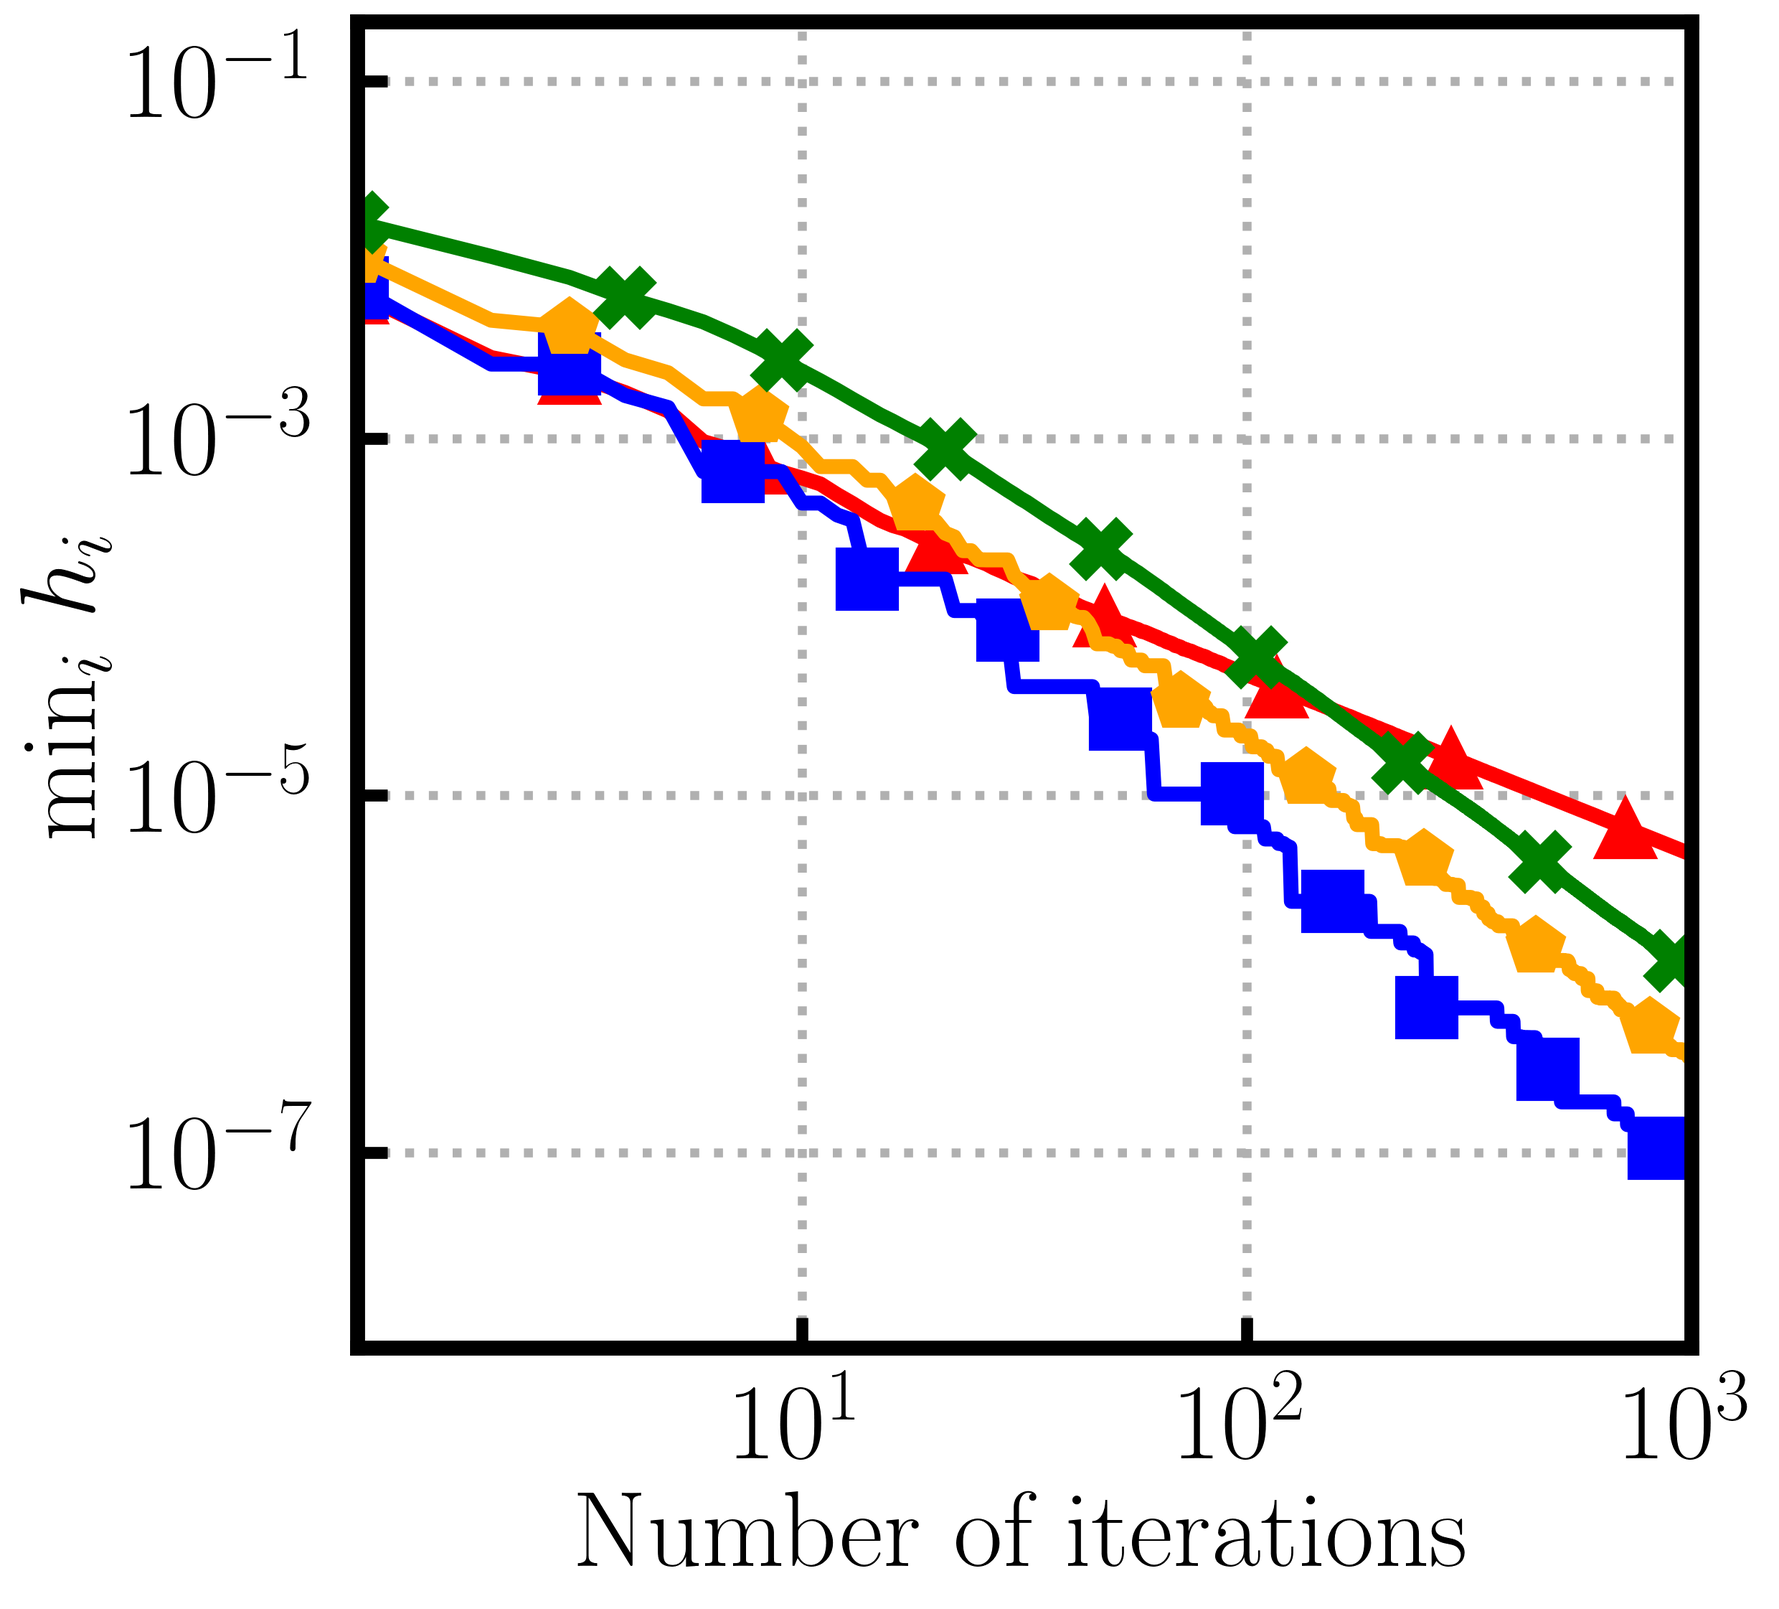
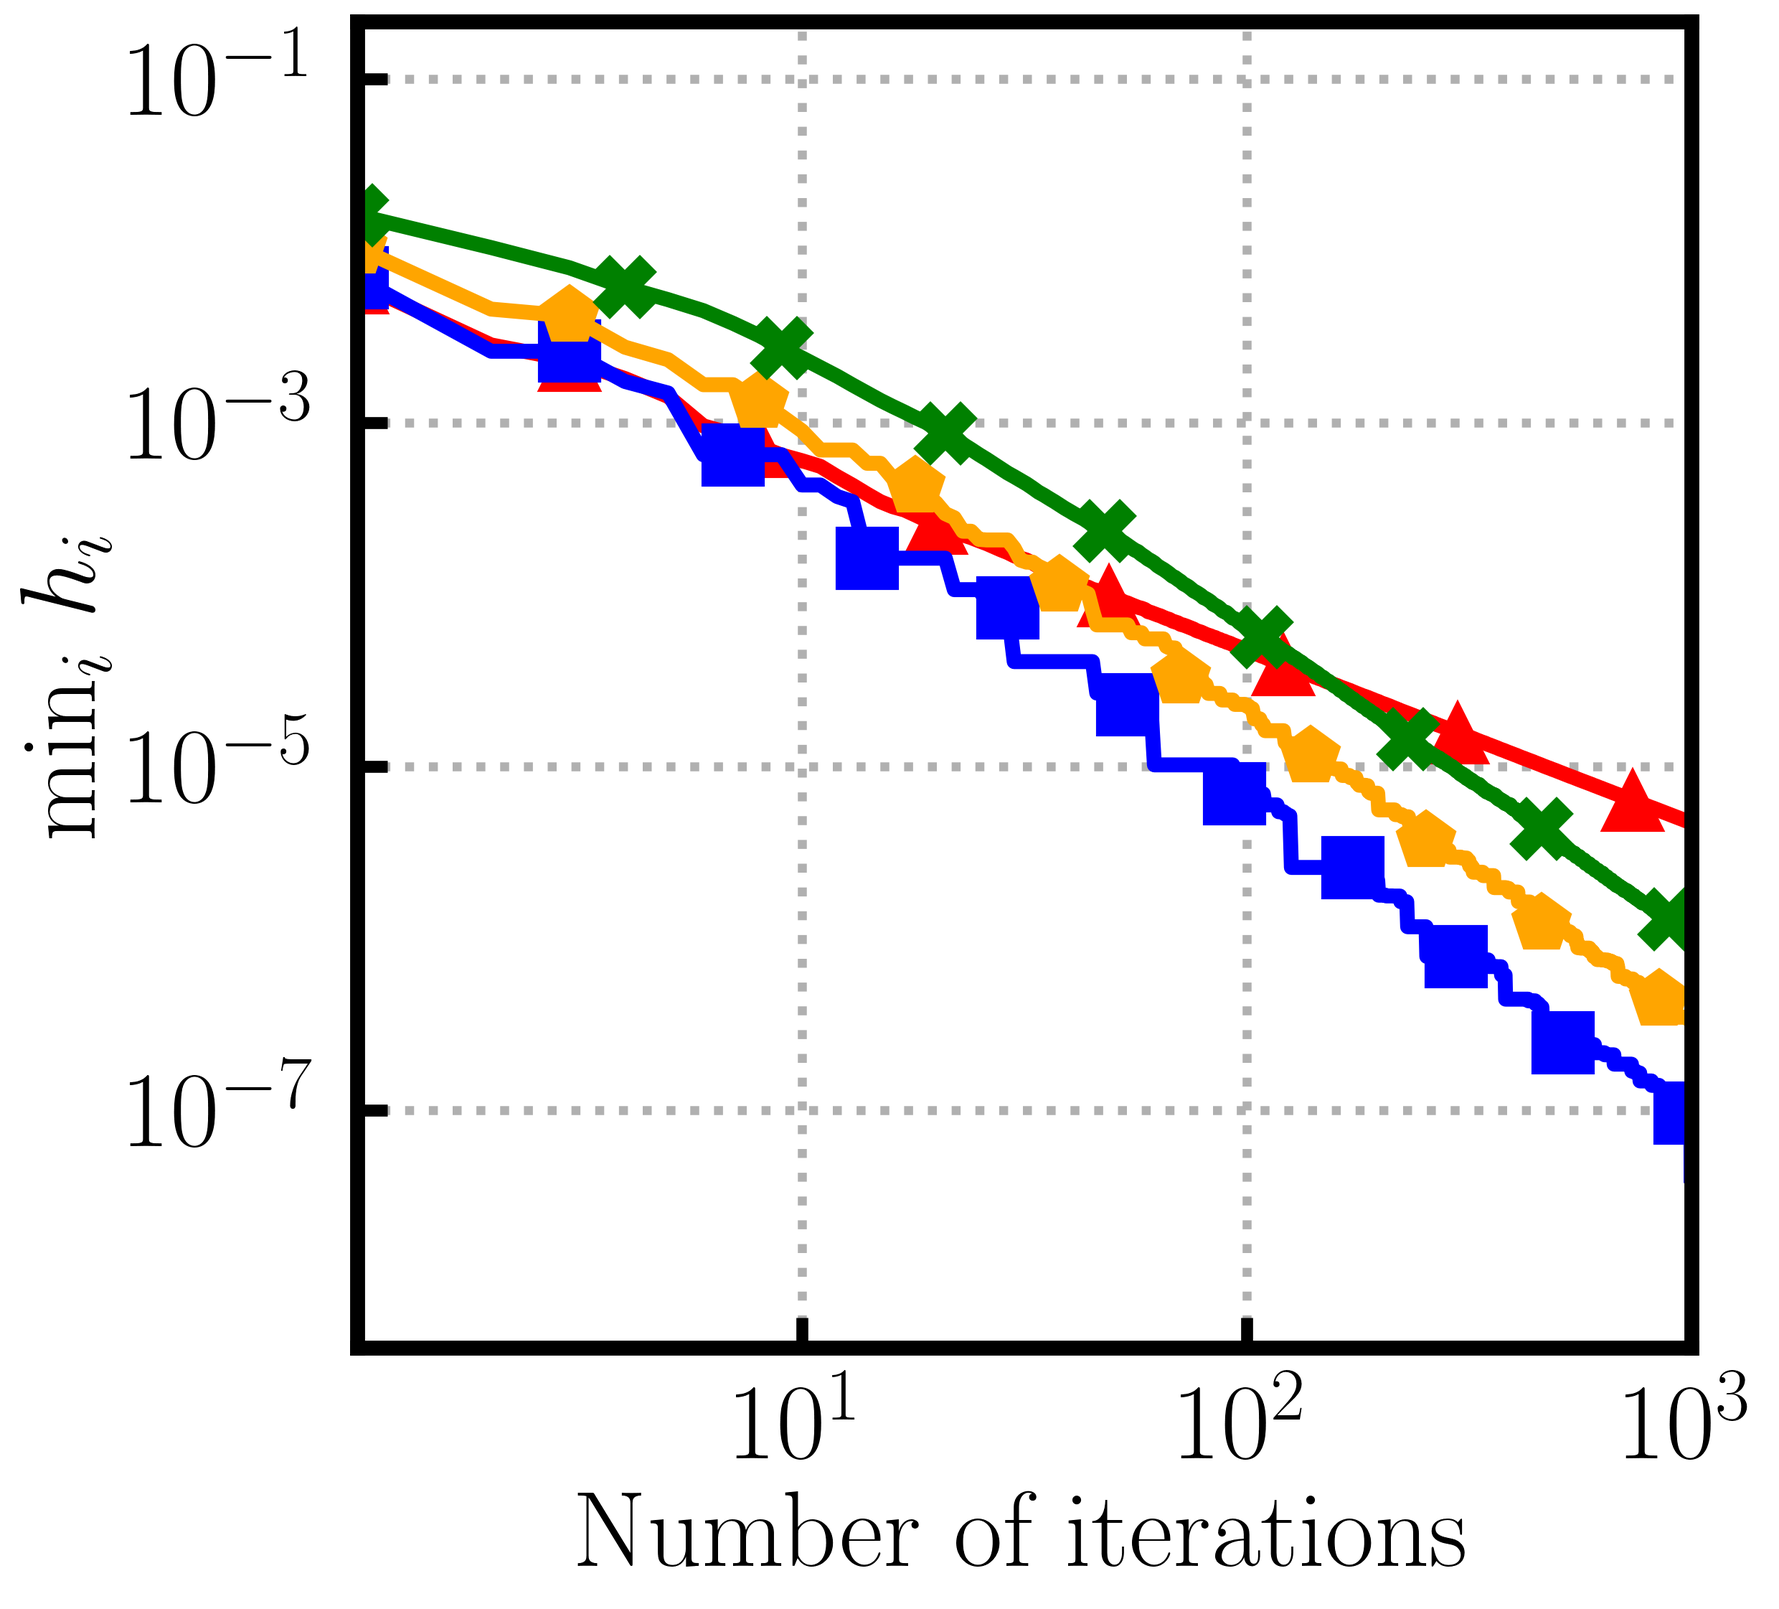
comparison to MFW

diff --git a/all_functions/objective_function.py b/all_functions/objective_function.py
@@ -359,3 +359,100 @@ class SquaredLossFinDim:
         if optimal_distance > max_step:
             optimal_distance = max_step
         return float(optimal_distance)
+
+
+def sigmoid(x: np.ndarray):
+    return 1 / (1 + np.exp(-x))
+
+if __name__ == '__main__':
+
+    x = np.array([[1, 0],
+                 [np.log(2), np.log(3)]])
+    print(sigmoid(x))
+
+
+class LogisticLossFinDim:
+    """Represents the logistic loss function f(x) = (1/m)sum_i log(1 + exp(-b_i * a_i^T * x)).
+
+    Attributes:
+        A: np.ndarray
+            A np.ndarray of dimension (m, n).
+        b: np.ndarray
+            A np.ndarray of dimension (m, 1).
+        m: int
+            Number of data points.
+        n: int
+            Number of features.
+
+    Methods:
+        evaluate_loss(x: np.ndarray)
+            Evaluates the loss of f at x.
+        evaluate_gradient(x: np.ndarray)
+            Evaluates the gradient of f at x.
+        compute_step_size(iteration: int, x: np.ndarray, direction: np.ndarray, step: dict, max_step: float = 1)
+            Computes the step-size for iterate x in a certain direction.
+    """
+
+    def __init__(self, A: np.ndarray, b: np.ndarray):
+        self.A = A
+        self.b = b.flatten()
+        self.m, self.n = A.shape
+
+    def evaluate_loss(self, x: np.ndarray):
+        """Evaluates the loss at x."""
+        x = x.flatten()
+        logits = self.A.dot(x) * self.b
+        return float(np.mean(np.logaddexp(0, -logits)))
+
+    def evaluate_gradient(self, x: np.ndarray):
+        """Evaluates the gradient of f at x."""
+        x = x.flatten()
+        logits = self.A.dot(x) * self.b
+        probs = sigmoid(-logits)
+        grad = self.A.T.dot(-self.b * probs) / self.m
+        return grad
+
+    def compute_step_size(self,
+                          iteration: int,
+                          x: np.ndarray,
+                          direction: np.ndarray,
+                          gradient: np.array,
+                          step: dict,
+                          max_step: float = 1):
+        """Computes the step-size for iterate x in a certain direction.
+
+        Args:
+            iteration: integer
+                The current iteration of the algorithm. Needed for "open-loop".
+            x: np.ndarray
+            direction: np.ndarray
+                FW vertex.
+            gradient: np.ndarray
+            step: dict
+                A dictionnary containing the information about the step type. The dictionary can have the following arg-
+                uments:
+                    "step type": Choose from "open-loop", "open-loop constant"
+                Additional Arguments:
+                    For "open-loop", provide float values for the keys "a", "b", "c", "d" that affect the step type
+                    as follows: a / (b * iteration**d + c)
+            max_step: float, Optional
+                Maximum step-size. (Default is 1.)
+
+        Returns:
+            optimal_distance: float
+                The step-size computed according to the chosen method.
+        """
+        step_type = step["step type"]
+        if step_type == "open-loop":
+            a = step["a"]
+            b = step["b"]
+            c = step["c"]
+            d = step["d"]
+            optimal_distance = a / (b * iteration ** d + c)
+        elif step_type == "open-loop constant":
+            optimal_distance = step["cst"]
+
+        if optimal_distance > max_step:
+            optimal_distance = max_step
+
+        return float(optimal_distance)

diff --git a/experiments/against_other_versions_experiments.py b/experiments/against_other_versions_experiments.py
@@ -1,0 +1,77 @@
+import random
+import numpy as np
+
+from all_functions.plotting import primal_gap_plotter, determine_y_lims, only_min
+from all_functions.problem_settings import uniformly_convex, uniformly_convex_logistic_regression
+from all_functions.experiments_auxiliary_functions import run_experiment
+from global_ import *
+import matplotlib as mpl
+
+random.seed(RANDOM)
+np.random.seed(RANDOM)
+
+mpl.rcParams['agg.path.chunksize'] = CHUNKSIZE
+mpl.rcParams['axes.linewidth'] = LINEWIDTH
+
+ps = [1, 1.1, 2, 5]
+
+
+# for p in ps:
+#     legend = False
+#     if p == ps[-1]:
+#         legend = True
+#     file_name = "Lp" + "_" + str(p) + "_ball_" + "location" + "_" + str(location)
+#     feasible_region, objective_function = uniformly_convex_logistic_regression(int(DIMENSION/2), DIMENSION, p=p)
+#
+#     fw_step_size_rules = [
+#         {"step type": "open-loop", "a": 1, "b": 1, "c": 1, "d": 1},
+#         {"step type": "open-loop", "a": 2, "b": 1, "c": 2, "d": 1},
+#         {"step type": "open-loop", "a": 6, "b": 1, "c": 6, "d": 1},
+#     ]
+#     primal_gaps, labels = run_experiment(ITERATIONS, objective_function, feasible_region, run_more=RUN_MORE,
+#                                          fw_step_size_rules=fw_step_size_rules)
+#     primal_gaps = only_min(primal_gaps)
+#     primal_gap_plotter(y_data=primal_gaps,
+#                        labels=labels,
+#                        iterations=ITERATIONS,
+#                        file_name=file_name,
+#                        x_lim=(1, ITERATIONS),
+#                        y_lim=determine_y_lims(primal_gaps),
+#                        y_label=r'$\mathrm{min}_i  \ h_i$',
+#                        directory="figures/against_other_versions",
+#                        legend=legend
+#                        )
+
+
+ITERATIONS = 10
+for p in ps:
+    legend = False
+    if p == ps[-1]:
+        legend = True
+    file_name = "Lp" + "_" + str(p) + "_ball_" + "location" + "_" + "exterior"
+    feasible_region, objective_function = uniformly_convex_logistic_regression(int(DIMENSION/2), DIMENSION, p=p)
+
+    fw_step_size_rules = [
+        # {"step type": "open-loop", "a": 1, "b": 1, "c": 1, "d": 1},
+        {"step type": "open-loop", "a": 2, "b": 1, "c": 2, "d": 1},
+        {"step type": "open-loop", "a": 6, "b": 1, "c": 6, "d": 1},
+    ]
+    mfw_step_size_rules = [
+        {"step type": "open-loop", "a": 2, "b": 1, "c": 3, "d": 1},
+        {"step type": "open-loop", "a": 6, "b": 1, "c": 6, "d": 1},
+    ]
+    primal_gaps, labels = run_experiment(ITERATIONS, objective_function, feasible_region, run_more=RUN_MORE,
+                                         fw_step_size_rules=fw_step_size_rules,
+                                         mfw_step_size_rules=mfw_step_size_rules)
+
+    primal_gaps = only_min(primal_gaps)
+    primal_gap_plotter(y_data=primal_gaps,
+                       labels=labels,
+                       iterations=ITERATIONS,
+                       file_name=file_name,
+                       x_lim=(1, ITERATIONS),
+                       y_lim=determine_y_lims(primal_gaps),
+                       y_label=r'$\mathrm{min}_i  \ h_i$',
+                       directory="figures/against_other_versions",
+                       legend=legend
+                       )

diff --git a/all_functions/frank_wolfe.py b/all_functions/frank_wolfe.py
@@ -279,4 +279,65 @@ def decomposition_invariant_frank_wolfe(feasible_region,
     return iterate_list, loss_list, fw_gap_list, x, x_p_list
 
 
+def momentum_guided_frank_wolfe(feasible_region,
+                                objective_function,
+                                step: dict,
+                                n_iters: int = 100):
+    """Performs momentum-guided Frank-Wolfe.
 
+        Args:
+            feasible_region:
+                The type of feasible region.
+            objective_function: Optional
+                The type of objective function.
+            step: dict
+                A dictionnary containing the information about the step type. The dictionary can have the following arg-
+                uments:
+                    "step type": Choose from "open-loop".
+                Additional Arguments:
+                    For "open-loop", provide integer values for the keys "a", "b", "c" that affect the step type as
+                    follows: a / (b * iteration + c)
+            n_iters: integer, Optional
+                The number of iterations. (Default is 100.)
+
+        Returns:
+            iterate_list: list
+                Returns a list containing the iterate at each iteration.
+            loss_list: list
+                Returns a list containing the loss at each iteration.
+            fw_gap_list: list
+                Returns a list containing the FW gap at each iteration.
+            x:
+                Returns x, the final iterate of the algorithm
+            x_p_list:
+                Returns a list containing the values of ||x_t - p_t|| at each iteration.
+
+        References:
+            [1] "Li, B., Coutino, M., Giannakis, G.B. and Leus, G., 2021. A momentum-guided frank-wolfe algorithm.
+            IEEE Transactions on Signal Processing, 69, pp.3597-3611."
+    """
+
+    x = feasible_region.initial_point()
+    v = x
+    theta = np.zeros(x.shape)
+    gradient = theta
+    loss_list = []
+    fw_gap_list = []
+    iterate_list = []
+    x_p_list = []
+
+    for i in range(1, n_iters):
+        scalar = objective_function.compute_step_size(i, x, v, gradient, step=step)
+        y = (1-scalar)*x + scalar*v
+        gradient = objective_function.evaluate_gradient(y)
+        theta = (1-scalar)*theta.flatten() + scalar*gradient.flatten()
+        v, fw_gap, x_p = feasible_region.linear_minimization_oracle(theta, x)
+        x_p_list.append(x_p)
+        x = (1-scalar)*x.flatten() + scalar*v.flatten()
+        loss = objective_function.evaluate_loss(x)
+        iterate_list.append(x)
+        loss_list.append(loss)
+        fw_gap_list.append(fw_gap)
+        if loss < 10e-60:
+            break
+    return iterate_list, loss_list, fw_gap_list, x, x_p_list

diff --git a/all_functions/feasible_region.py b/all_functions/feasible_region.py
@@ -124,12 +124,12 @@ class LpBall:
         self.diameter = 2
 
     def linear_minimization_oracle(self,
-                                   gradient: np.ndarray,
+                                   v: np.ndarray,
                                    x: np.ndarray):
-        """Solves the linear minimization problem min_g in Lp <grad f.T(x), g>.
+        """Solves the linear minimization problem min_g in Lp <v, g>.
 
         Args:
-            gradient: np.ndarray
+            v: np.ndarray
             x: np.ndarray
 
         Returns:
@@ -141,27 +141,25 @@ class LpBall:
                 ||x_t - p_t||.
         """
         if self.p == 1:
-            tmp_pos = np.abs(gradient).argmax()
-            sign = np.sign(gradient[tmp_pos])
+            v = v.flatten()
+            tmp_pos = np.abs(v).argmax()
+            sign = np.sign(v[tmp_pos])
             p = np.zeros(self.dimension)
             p[tmp_pos] = - sign
             assert np.linalg.norm(p, ord=1) <= 1, "p is not in the L1 ball."
-            wolfe_gap = float(gradient.T.dot(fd(x)) - gradient.T.dot(fd(p)))
         elif self.p == -1:
-            gradient = gradient.flatten()
-            p = -np.sign(gradient)
+            v = v.flatten()
+            p = -np.sign(v)
             assert (np.abs(p) <= 1).all(), "p is not in the Linfinity ball."
-            wolfe_gap = float(fd(gradient).T.dot(fd(x)) - fd(gradient).T.dot(fd(p)))
+
         else:
             # The solution to min_||f||_p <= 1 <f,g> is given by f_i = g_i^{q-1}/||g||_q^{q-1}.
             x = x.flatten()
-            gradient = gradient.flatten()
-            p = -np.sign(gradient) * np.abs(gradient) ** (self.q - 1) / (
-                    (lpnorm(gradient, self.q)) ** (self.q - 1))
-            wolfe_gap = float(gradient[:, np.newaxis].T.dot(x[:, np.newaxis])
-                              - gradient[:, np.newaxis].T.dot(p[:, np.newaxis]))
+            v = v.flatten()
+            p = -np.sign(v) * np.abs(v) ** (self.q - 1) / (
+                    (lpnorm(v, self.q)) ** (self.q - 1))
             assert abs(lpnorm(p, self.p) - 1) < 10e-10, "p is not in the Lp ball."
-
+        wolfe_gap = float(fd(v).T.dot(fd(x)) - fd(v).T.dot(fd(p)))
         pt_xt = np.linalg.norm(x.flatten() - p.flatten())
         return p, wolfe_gap, pt_xt
 

diff --git a/all_functions/experiments_auxiliary_functions.py b/all_functions/experiments_auxiliary_functions.py
@@ -1,4 +1,5 @@
-from all_functions.frank_wolfe import frank_wolfe, decomposition_invariant_frank_wolfe, away_step_frank_wolfe
+from all_functions.frank_wolfe import frank_wolfe, decomposition_invariant_frank_wolfe, away_step_frank_wolfe, \
+    momentum_guided_frank_wolfe
 import numpy as np
 from scipy import stats
 
@@ -41,7 +42,8 @@ def run_experiment(iterations,
                    run_more: int = 0,
                    fw_step_size_rules: list = [],
                    difw_step_size_rules: list = [],
-                   afw_step_size_rules: list = []
+                   afw_step_size_rules: list = [],
+                   mfw_step_size_rules: list = []
                    ):
     """
     Minimizes objective_function over feasible_region.
@@ -59,6 +61,8 @@ def run_experiment(iterations,
             The types of DIFW step-size rules we want to run. (Default is [].)
         afw_step_size_rules: list
             The types of AFW step-size rules we want to run. (Default is [].)
+        mfw_step_size_rules: list
+            The types of MFW step-size rules we want to run. (Default is [].)
 
     Returns:
         Returns a list of lists of primal gaps and a list of labels.
@@ -72,6 +76,20 @@ def run_experiment(iterations,
                                                                         objective_function=objective_function,
                                                                         n_iters=(int(iterations + run_more)),
                                                                         step=step)
+
+        if run_more == 0:
+            data_list = loss_list
+        else:
+            data_list = [loss_list[i] - loss_list[-1] for i in range(len(loss_list))][:iterations]
+        data.append(data_list)
+        labels.append(current_label)
+
+    for step in mfw_step_size_rules:
+        current_label = translate_step_types("MFW", step)
+
+        iterate_list, loss_list, fw_gap_list, x, x_p_list = momentum_guided_frank_wolfe(
+            feasible_region=feasible_region, objective_function=objective_function,
+            n_iters=(int(iterations + run_more)), step=step)
 
         if run_more == 0:
             data_list = loss_list

diff --git a/all_functions/problem_settings.py b/all_functions/problem_settings.py
@@ -1,7 +1,7 @@
 import numpy as np
 
 from all_functions.feasible_region import lpnorm, UnitSimplex, LpBall
-from all_functions.objective_function import SquaredLossFinDim
+from all_functions.objective_function import SquaredLossFinDim, LogisticLossFinDim
 
 
 def polytope_experiment(dimension: int, rho: float):
@@ -53,11 +53,8 @@ def probability_simplex_interior_fast_ls_ss(dimension):
 def uniformly_convex(dimension, p=2, location: str = "interior", convexity: str = "strong"):
     """Creates a problem setting for which FW with ls and ss converge linearly and FW with ol
     converges at a rate of 1/t² after a certain number of iterations. Specificaly,
-        f(x) = 1/2 ||x-b||_2^2,
-        where b is a non-sparse random vector.
-
-        and
-        the feasible region is the probability simplex.
+        f(x) = 1/2 ||Ax-b||_2^2,
+        where A is a random matrix and b is a non-sparse random vector and the feasible region is an Lp ball.
 
     The unconstrained optimum lies in location, which is in ["interior", "boundary", "exterior"].
         """
@@ -93,3 +90,21 @@ def uniformly_convex(dimension, p=2, location: str = "interior", convexity: str 
         lmbda = np.linalg.norm(b) - 1
         cst = (alpha * lmbda) / (2 * L)
     return feasible_region, objective_function, cst
+
+
+def uniformly_convex_logistic_regression(samples, dimension, p=2):
+    """Creates objective
+        f(x) = (1/m)sum_i log(1 + exp(-b_i * a_i^T * x)),
+    where a_i and b_i are random vectors and the region is an Lp ball. The optimum is always in the exterior.
+    """
+    # Generate a random dataset
+    A = np.random.rand(samples, dimension) / samples # 100 samples with 3 features
+    b = np.random.randint(0, 2, size=samples)  # binary labels
+
+    # Add a bias term
+    A = np.hstack((np.ones((A.shape[0], 1)), A))
+
+    objective_function = LogisticLossFinDim(A=A, b=b)
+    feasible_region = LpBall(dimension=A.shape[1], p=p)
+
+    return feasible_region, objective_function

diff --git a/experiments/kernel_herding.py b/experiments/kernel_herding.py
@@ -25,7 +25,7 @@ fw_step_size_rules = [
 ]
 
 iterations = 1000
-iterations_lmo = 2000
+iterations_lmo = 1000
 
 rho = [np.random.rand(random.randint(2, 5), 1), np.random.rand(random.randint(2, 5), 1)]
 distribution_as_string = distribution_to_string(rho)
